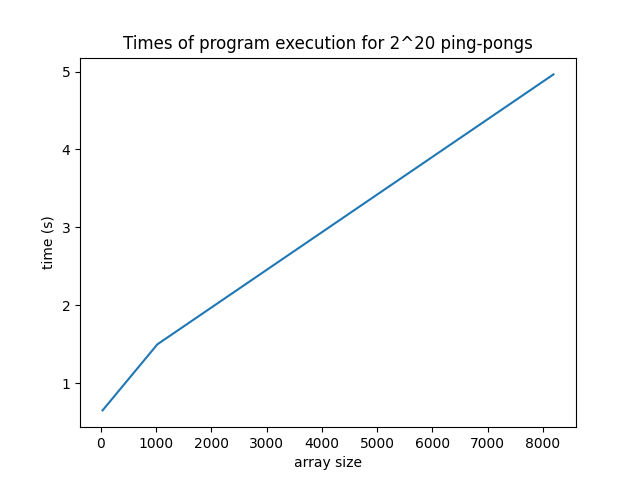
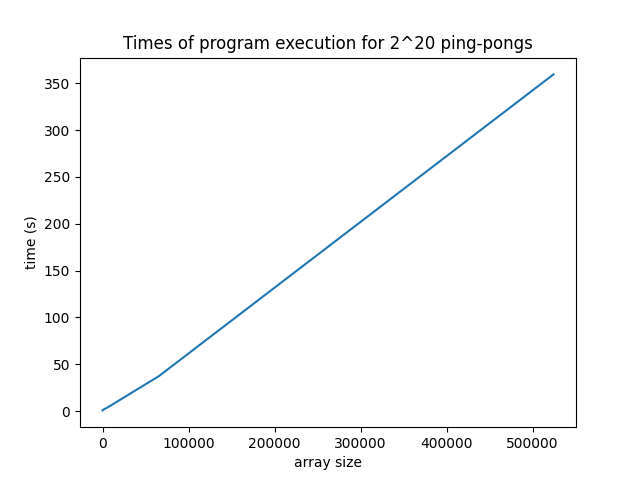
more computations

diff --git a/ping_pong_table.md b/ping_pong_table.md
@@ -1,5 +1,7 @@
-|    |   Size(bytes) |   # Iterations |   Total time (secs) |   Time per message |   Bandwidth (MB/s) |
-|---:|--------------:|---------------:|--------------------:|-------------------:|-------------------:|
-|  0 |           128 |    1.04858e+06 |            0.652273 |        6.22056e-07 |            196.237 |
-|  1 |          4096 |    1.04858e+06 |            1.49968  |        1.43021e-06 |           2731.24  |
-|  2 |         32768 |    1.04858e+06 |            4.96301  |        4.73309e-06 |           6602.45  |
+|    |      Size(bytes) |   # Iterations |   Total time (secs) |   Time per message |   Bandwidth (MB/s) |
+|---:|-----------------:|---------------:|--------------------:|-------------------:|-------------------:|
+|  0 |    128           |    1.04858e+06 |            0.745095 |        7.10578e-07 |             171.79 |
+|  1 |   4096           |    1.04858e+06 |            1.51451  |        1.44435e-06 |            2704.5  |
+|  2 |  32768           |    1.04858e+06 |            5.1737   |        4.93403e-06 |            6333.57 |
+|  3 | 262144           |    1.04858e+06 |           37.3417   |        3.56118e-05 |            7020.14 |
+|  4 |      2.09715e+06 |    1.04858e+06 |          359.562    |        0.000342905 |            5832.52 |
